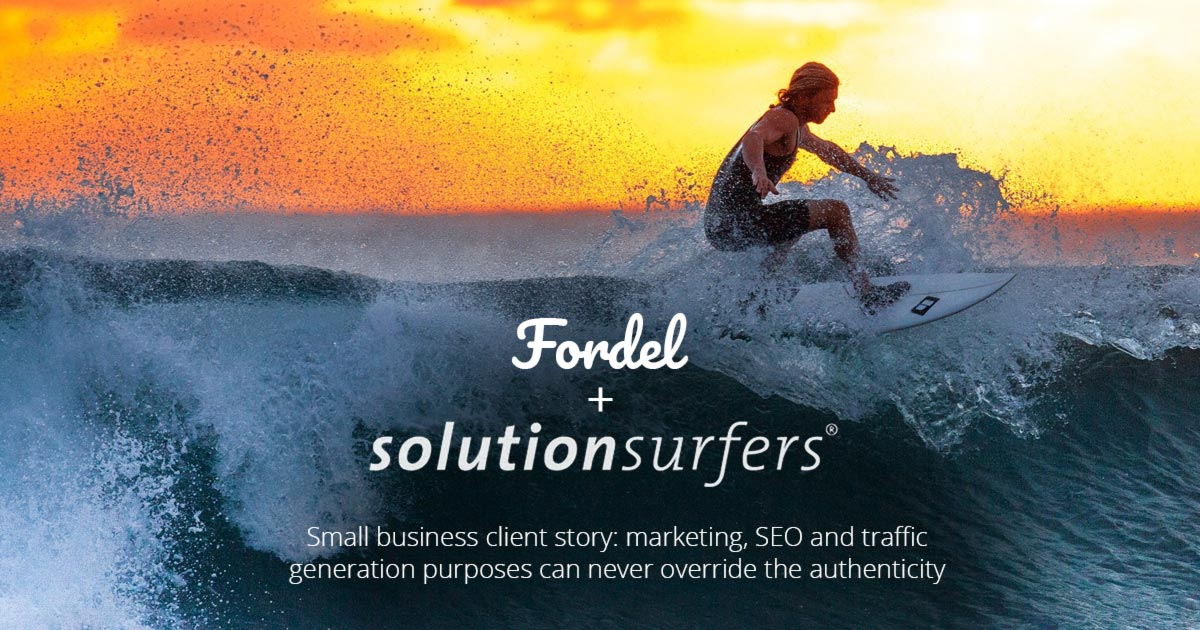
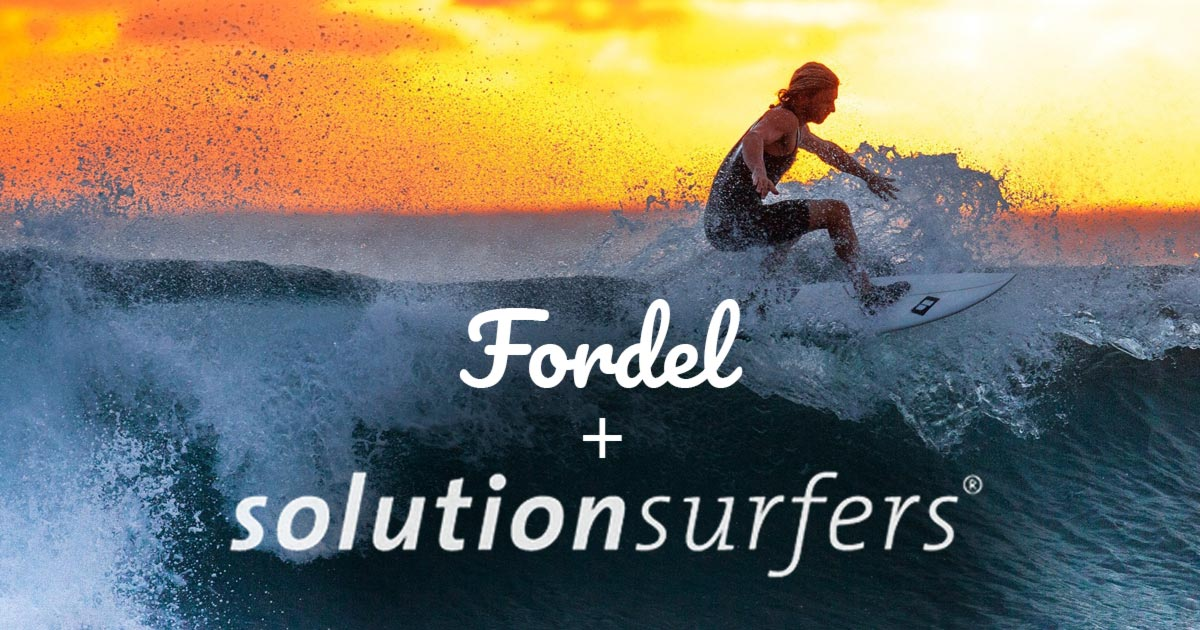
increased text size in fb cover images on client story

Changed region(s): [[0.185, 0.4524, 0.8017, 0.9349], [0.8017, 0.754, 0.8325, 0.7841], [0.6783, 0.6635, 0.7092, 0.6937]]

diff --git a/client-stories/solutionsurfers.html b/client-stories/solutionsurfers.html
@@ -8,7 +8,7 @@ layout: clientstory
 clientname: solutionsurfers
 ogImage: images/share/solutionsurfers-facebook-share.jpg
 ogDescription: this is an og description
-ogTitle: How Fordel helped Solutionsurfers to Spread the Word
+ogTitle: Fordel helped Solutionsurfers to Spread the Word
 backgroundImage:
 ---
 
